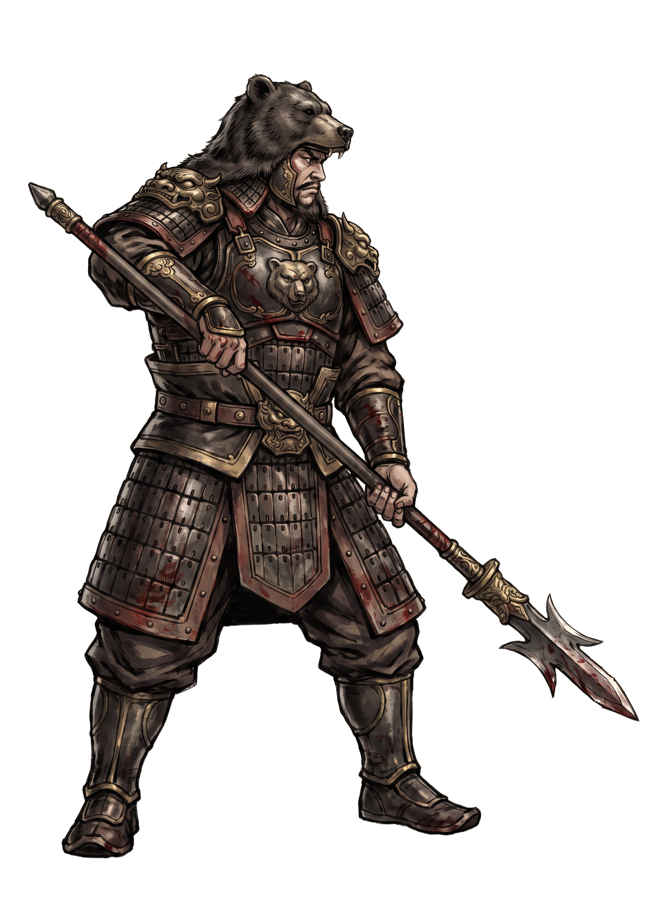
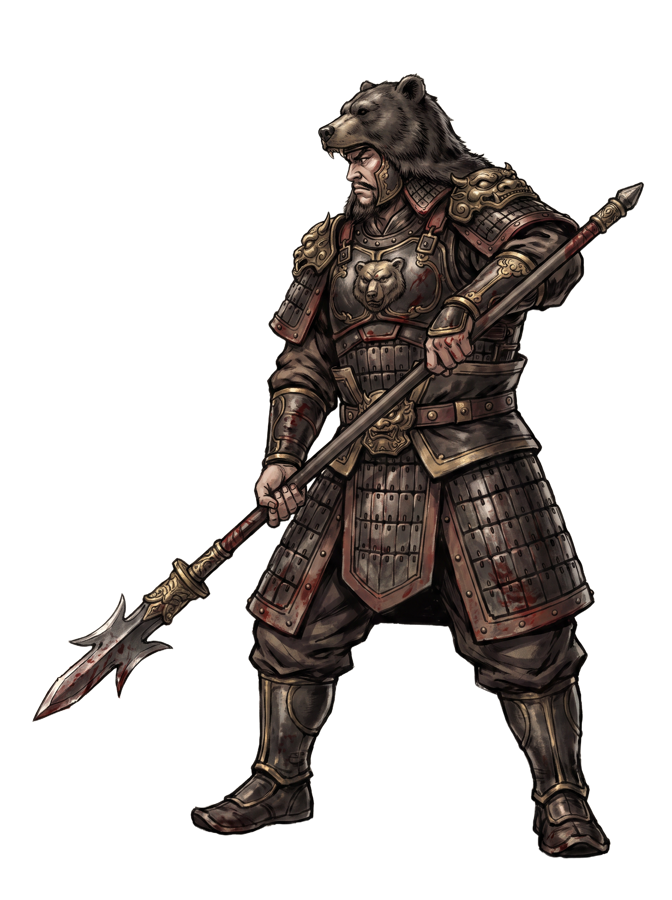
feat: add Zhao Yun dev scenes and scrollable scene browser
Add five focused Zhao Yun dev combat scenes (legendary, qitan, jushou,
relics, jiuzhu), make the dev scene browser scroll when the grid
outgrows the screen, and refresh two enemy sprites.

diff --git a/tests/devScenes.test.ts b/tests/devScenes.test.ts
@@ -7,15 +7,25 @@ import qinglong from '../src/devScenes/scenes/guanyu-qinglong';
 import wusheng from '../src/devScenes/scenes/guanyu-wusheng';
 import yijue from '../src/devScenes/scenes/guanyu-yijue';
 import scene1 from '../src/devScenes/scenes/scene1';
+import zhaoyunJiuzhu from '../src/devScenes/scenes/zhaoyun-jiuzhu';
+import zhaoyunJushou from '../src/devScenes/scenes/zhaoyun-jushou';
+import zhaoyunLegendary from '../src/devScenes/scenes/zhaoyun-legendary';
+import zhaoyunQitan from '../src/devScenes/scenes/zhaoyun-qitan';
+import zhaoyunRelics from '../src/devScenes/scenes/zhaoyun-relics';
 
 describe('dev combat scenes', () => {
-  it('lists the comprehensive scene first, followed by focused Guan Yu scenes', () => {
+  it('lists the comprehensive scene first, followed by focused hero scenes', () => {
     expect(devSceneEntries().map((entry) => entry.key)).toEqual([
       'scene1',
       'guanyu-qinglong',
       'guanyu-wusheng',
       'guanyu-yijue',
       'guanyu-exhaust',
+      'zhaoyun-legendary',
+      'zhaoyun-qitan',
+      'zhaoyun-jushou',
+      'zhaoyun-relics',
+      'zhaoyun-jiuzhu',
     ]);
   });
 
@@ -68,15 +78,20 @@ describe('dev combat scenes', () => {
   });
 
   it.each([
-    ['guanyu-qinglong', qinglong, 2],
-    ['guanyu-wusheng', wusheng, 1],
-    ['guanyu-yijue', yijue, 1],
-    ['guanyu-exhaust', exhaust, 1],
-  ] as const)('prepares focused scene %s', (key, definition, enemyCount) => {
+    ['guanyu-qinglong', qinglong, 'guanyu', 2],
+    ['guanyu-wusheng', wusheng, 'guanyu', 1],
+    ['guanyu-yijue', yijue, 'guanyu', 1],
+    ['guanyu-exhaust', exhaust, 'guanyu', 1],
+    ['zhaoyun-legendary', zhaoyunLegendary, 'zhaoyun', 3],
+    ['zhaoyun-qitan', zhaoyunQitan, 'zhaoyun', 1],
+    ['zhaoyun-jushou', zhaoyunJushou, 'zhaoyun', 2],
+    ['zhaoyun-relics', zhaoyunRelics, 'zhaoyun', 1],
+    ['zhaoyun-jiuzhu', zhaoyunJiuzhu, 'zhaoyun', 1],
+  ] as const)('prepares focused scene %s', (key, definition, hero, enemyCount) => {
     const { run, combat } = prepareDevScene(key, definition);
     const state = restoreCombat(combat, run.mods);
 
-    expect(run.hero.id).toBe('guanyu');
+    expect(run.hero.id).toBe(hero);
     expect(state.enemies).toHaveLength(enemyCount);
     expect(state.hand).toHaveLength(5);
     expect(state.energy).toBeGreaterThanOrEqual(5);

diff --git a/src/devScenes/index.ts b/src/devScenes/index.ts
@@ -107,6 +107,27 @@ export function showDevSceneBrowser(scene: Phaser.Scene, requestedKey: string | 
   const totalHeight = rows * height + (rows - 1) * gapY;
   const top = 150 + Math.max(0, (GAME_HEIGHT - 180 - totalHeight) / 2);
 
+  // Once the grid outgrows the screen the list scrolls; the header stays put.
+  const listTop = 140;
+  const list = scene.add.container(0, 0);
+  const overflow = Math.max(0, top + totalHeight + 30 - GAME_HEIGHT);
+  if (overflow > 0) {
+    const maskShape = scene.make.graphics({}, false);
+    maskShape.fillRect(0, listTop, GAME_WIDTH, GAME_HEIGHT - listTop);
+    list.setMask(maskShape.createGeometryMask());
+    let scrollY = 0;
+    scene.input.on(
+      'wheel',
+      (_pointer: Phaser.Input.Pointer, _over: unknown, _dx: number, dy: number) => {
+        scrollY = Math.min(overflow, Math.max(0, scrollY + dy * 0.5));
+        list.y = -scrollY;
+      },
+    );
+    scene.add
+      .text(GAME_WIDTH / 2, GAME_HEIGHT - 12, '滚轮翻看更多场景', bodyStyle(13, C.paperDim))
+      .setOrigin(0.5, 1);
+  }
+
   entries.forEach((entry, index) => {
     const row = Math.floor(index / columns);
     const col = index % columns;
@@ -148,8 +169,11 @@ export function showDevSceneBrowser(scene: Phaser.Scene, requestedKey: string | 
       scene.tweens.add({ targets: card, scale: 1, duration: 110, ease: 'Quad.easeOut' });
       title.setColor(`#${C.paper.toString(16).padStart(6, '0')}`);
     });
-    hit.on('pointerdown', () => {
+    hit.on('pointerdown', (pointer: Phaser.Input.Pointer) => {
       if (launching) return;
+      // A scrolled-away card is masked out but its hit zone still lives
+      // under the header; ignore clicks that land up there.
+      if (overflow > 0 && pointer.y < listTop) return;
       launching = true;
       audio.unlock();
       audio.play('ui-click', { pitchJitter: 0 });
@@ -157,6 +181,7 @@ export function showDevSceneBrowser(scene: Phaser.Scene, requestedKey: string | 
     });
 
     card.add([panel, key, title, description, enter, hit]);
+    list.add(card);
     card.setAlpha(0);
     scene.tweens.add({
       targets: card,

diff --git a/src/devScenes/scenes/zhaoyun-legendary.ts b/src/devScenes/scenes/zhaoyun-legendary.ts
@@ -1,0 +1,54 @@
+import { defineCombatScene } from '../types';
+
+/**
+ * 赵云三张传奇牌的综合演练场。
+ *
+ * 推荐顺序：照夜破阵 → 0 费攻牌铺连击 → 七入长坂 → 龙吟震军。
+ * 照夜破阵先回气补手；连击数到 3 后七入长坂附带回气抽牌，
+ * 龙吟震军收全场并铺怯战。督尉的驱策展示三人房的斩首压力。
+ */
+export default defineCombatScene({
+  name: '赵云传奇 · 三式合演',
+  description: '西凉督尉领两名羌兵，赵云首回合持有三张传奇牌与 8 点气。',
+  order: 50,
+  hero: 'zhaoyun',
+  encounter: 'm15',
+  seed: 'zhaoyun-legendary-trio',
+  relics: ['yajiaoqiang'],
+  potions: ['zhuangxingjiu', 'tiejiasan', null],
+  player: {
+    hp: 60,
+    maxHp: 74,
+    energy: 8,
+  },
+  enemies: [
+    {
+      defId: 'xiliangduwei',
+      hp: 40,
+      maxHp: 40,
+      intent: 'drive',
+    },
+    {
+      defId: 'qiangbing',
+      hp: 46,
+      maxHp: 46,
+      intent: 'blade',
+    },
+    {
+      defId: 'qiangbing',
+      hp: 46,
+      maxHp: 46,
+      intent: 'rally',
+    },
+  ],
+  hand: [
+    'zhaoyepozhen',
+    'qiruchangban',
+    'longyinzhenjun',
+    'jici',
+    'tuzhen',
+  ],
+  drawPile: ['longdan', 'tingqiang', 'luema'],
+  discardPile: [],
+  exhaustPile: [],
+});

diff --git a/src/devScenes/scenes/zhaoyun-jiuzhu.ts b/src/devScenes/scenes/zhaoyun-jiuzhu.ts
@@ -1,0 +1,37 @@
+import { defineCombatScene } from '../types';
+
+/**
+ * 半血以下的濒危反打：单骑救主双版本走 16/20 热面并回血；
+ * 先怀抱幼主上天佑再打护主冲阵吃 13 点分支，玉狮跃坑的低血甲同步可测。
+ * 李傕的长驱 19 点撞上天佑会被整笔吃掉；阿斗襁褓在首次受伤时补一层。
+ * 抽牌堆里是体力代价轴：血染征袍、杀透重围与裹创的回款窗口。
+ */
+export default defineCombatScene({
+  name: '单骑救主 · 濒危反打',
+  description: '赵云仅剩 26 体力面对李傕长驱；低血分支、天佑链与体力代价牌同局验证。',
+  order: 90,
+  hero: 'zhaoyun',
+  encounter: 'e4',
+  seed: 'zhaoyun-jiuzhu-clutch',
+  relics: ['yajiaoqiang', 'adouqiangbao'],
+  potions: ['huitiandan', 'tiejiasan', null],
+  player: { hp: 26, maxHp: 74, energy: 5 },
+  enemies: [
+    {
+      defId: 'licui',
+      hp: 104,
+      maxHp: 104,
+      intent: 'drive',
+    },
+  ],
+  hand: [
+    'danqijiuzhu',
+    { id: 'danqijiuzhu', upgraded: 1 },
+    'huaibaoyoudou',
+    'huzhuchongzhen',
+    'yushiyuekeng',
+  ],
+  drawPile: ['xueranzhengpao', 'shatouchongwei', 'guochuang'],
+  discardPile: [],
+  exhaustPile: [],
+});

diff --git a/src/devScenes/scenes/zhaoyun-relics.ts b/src/devScenes/scenes/zhaoyun-relics.ts
@@ -1,0 +1,45 @@
+import { defineCombatScene } from '../types';
+
+/**
+ * 扩池遗物的五段阶梯：手上五张攻牌连打，第 1~5 次攻击各点亮一件——
+ * 红缨（+2 甲）→ 涯角枪（+4 伤）→ 青釭剑（抽 2）→ 翊军印（回 1 气）
+ * → 龙胆枪谱（重复结算）。第 5 张牌同时触发常山军旗的抽牌；
+ * 回合结束再看亮银甲与得胜鼓的收尾。
+ */
+export default defineCombatScene({
+  name: '连击遗物 · 五段阶梯',
+  description: '装满赵云扩池遗物，五张攻牌把 1~5 攻的触发一次看全；虎豹骑当靶。',
+  order: 80,
+  hero: 'zhaoyun',
+  encounter: 'm16',
+  seed: 'zhaoyun-relic-ladder',
+  relics: [
+    'yajiaoqiang',
+    'hongying',
+    'qinggangjian',
+    'yijunyin',
+    'longdanqiangpu',
+    'changshanjunqi',
+    'deshenggu',
+    'liangyinjia',
+  ],
+  player: { hp: 74, maxHp: 74, energy: 6 },
+  enemies: [
+    {
+      defId: 'hubaoqi',
+      hp: 130,
+      maxHp: 130,
+      intent: 'hoof',
+    },
+  ],
+  hand: [
+    'tuzhen',
+    'lianhuanqiang',
+    'jici',
+    'longdan',
+    'sanjinsanchu',
+  ],
+  drawPile: ['tingqiang', 'touzhen', 'duojian'],
+  discardPile: [],
+  exhaustPile: [],
+});

diff --git a/src/devScenes/scenes/zhaoyun-jushou.ts b/src/devScenes/scenes/zhaoyun-jushou.ts
@@ -1,0 +1,43 @@
+import { defineCombatScene } from '../types';
+
+/**
+ * 据守反击轴对上最能喂回枪的连弩兵：两轮四连弩共八箭，
+ * 回马枪每中一箭返 3 点护甲，坚壁的反刺再逐箭扎回去。
+ * 预置 8 点护甲让据枪（≥5）与乘隙（≥5）开场即走高分支，
+ * 再叠到 10 以上收枪出如龙的 20 点。
+ */
+export default defineCombatScene({
+  name: '据守反击 · 回马枪',
+  description: '两名连弩兵齐射，赵云预置 8 点护甲；回枪、反刺与护甲阈值牌同回合可测。',
+  order: 70,
+  hero: 'zhaoyun',
+  encounter: 'm18',
+  seed: 'zhaoyun-jushou-riposte',
+  relics: ['yajiaoqiang'],
+  potions: ['tiejiasan', null, null],
+  player: { hp: 70, maxHp: 74, block: 8, energy: 6 },
+  enemies: [
+    {
+      defId: 'lianubing',
+      hp: 52,
+      maxHp: 52,
+      intent: 'volley',
+    },
+    {
+      defId: 'lianubing',
+      hp: 52,
+      maxHp: 52,
+      intent: 'volley',
+    },
+  ],
+  hand: [
+    'huimaqiang',
+    'jianbi',
+    'juqiang',
+    'qiangchurulong',
+    'chengxi',
+  ],
+  drawPile: ['juma', 'hanshuijushou', 'xianmei'],
+  discardPile: [],
+  exhaustPile: [],
+});

diff --git a/src/devScenes/scenes/zhaoyun-qitan.ts b/src/devScenes/scenes/zhaoyun-qitan.ts
@@ -1,0 +1,35 @@
+import { defineCombatScene } from '../types';
+
+/**
+ * 连击缩放的标尺场：先用 0 费疾刺/龙胆垫连击数，再比较基础与精铸
+ * 七探盘蛇的段伤曲线（5/7 每段）；三攻之后枪挑高览翻倍到 30。
+ * 长坂坡在抽牌堆顶，可续一轮边打边立甲的连刺。
+ */
+export default defineCombatScene({
+  name: '七探盘蛇 · 连击标尺',
+  description: '厚血华雄当靶，同手放基础与精铸七探盘蛇；0 费攻牌垫数后观察段数结算。',
+  order: 60,
+  hero: 'zhaoyun',
+  encounter: 'e1',
+  seed: 'zhaoyun-qitan-ruler',
+  relics: ['yajiaoqiang'],
+  player: { hp: 68, maxHp: 74, energy: 8 },
+  enemies: [
+    {
+      defId: 'huaxiong',
+      hp: 260,
+      maxHp: 260,
+      intent: 'sweep',
+    },
+  ],
+  hand: [
+    'jici',
+    'longdan',
+    'qitanpanshe',
+    { id: 'qitanpanshe', upgraded: 1 },
+    'qiangtiaogaolan',
+  ],
+  drawPile: ['changbanpo', 'tingqiang', 'tuzhen'],
+  discardPile: [],
+  exhaustPile: [],
+});
